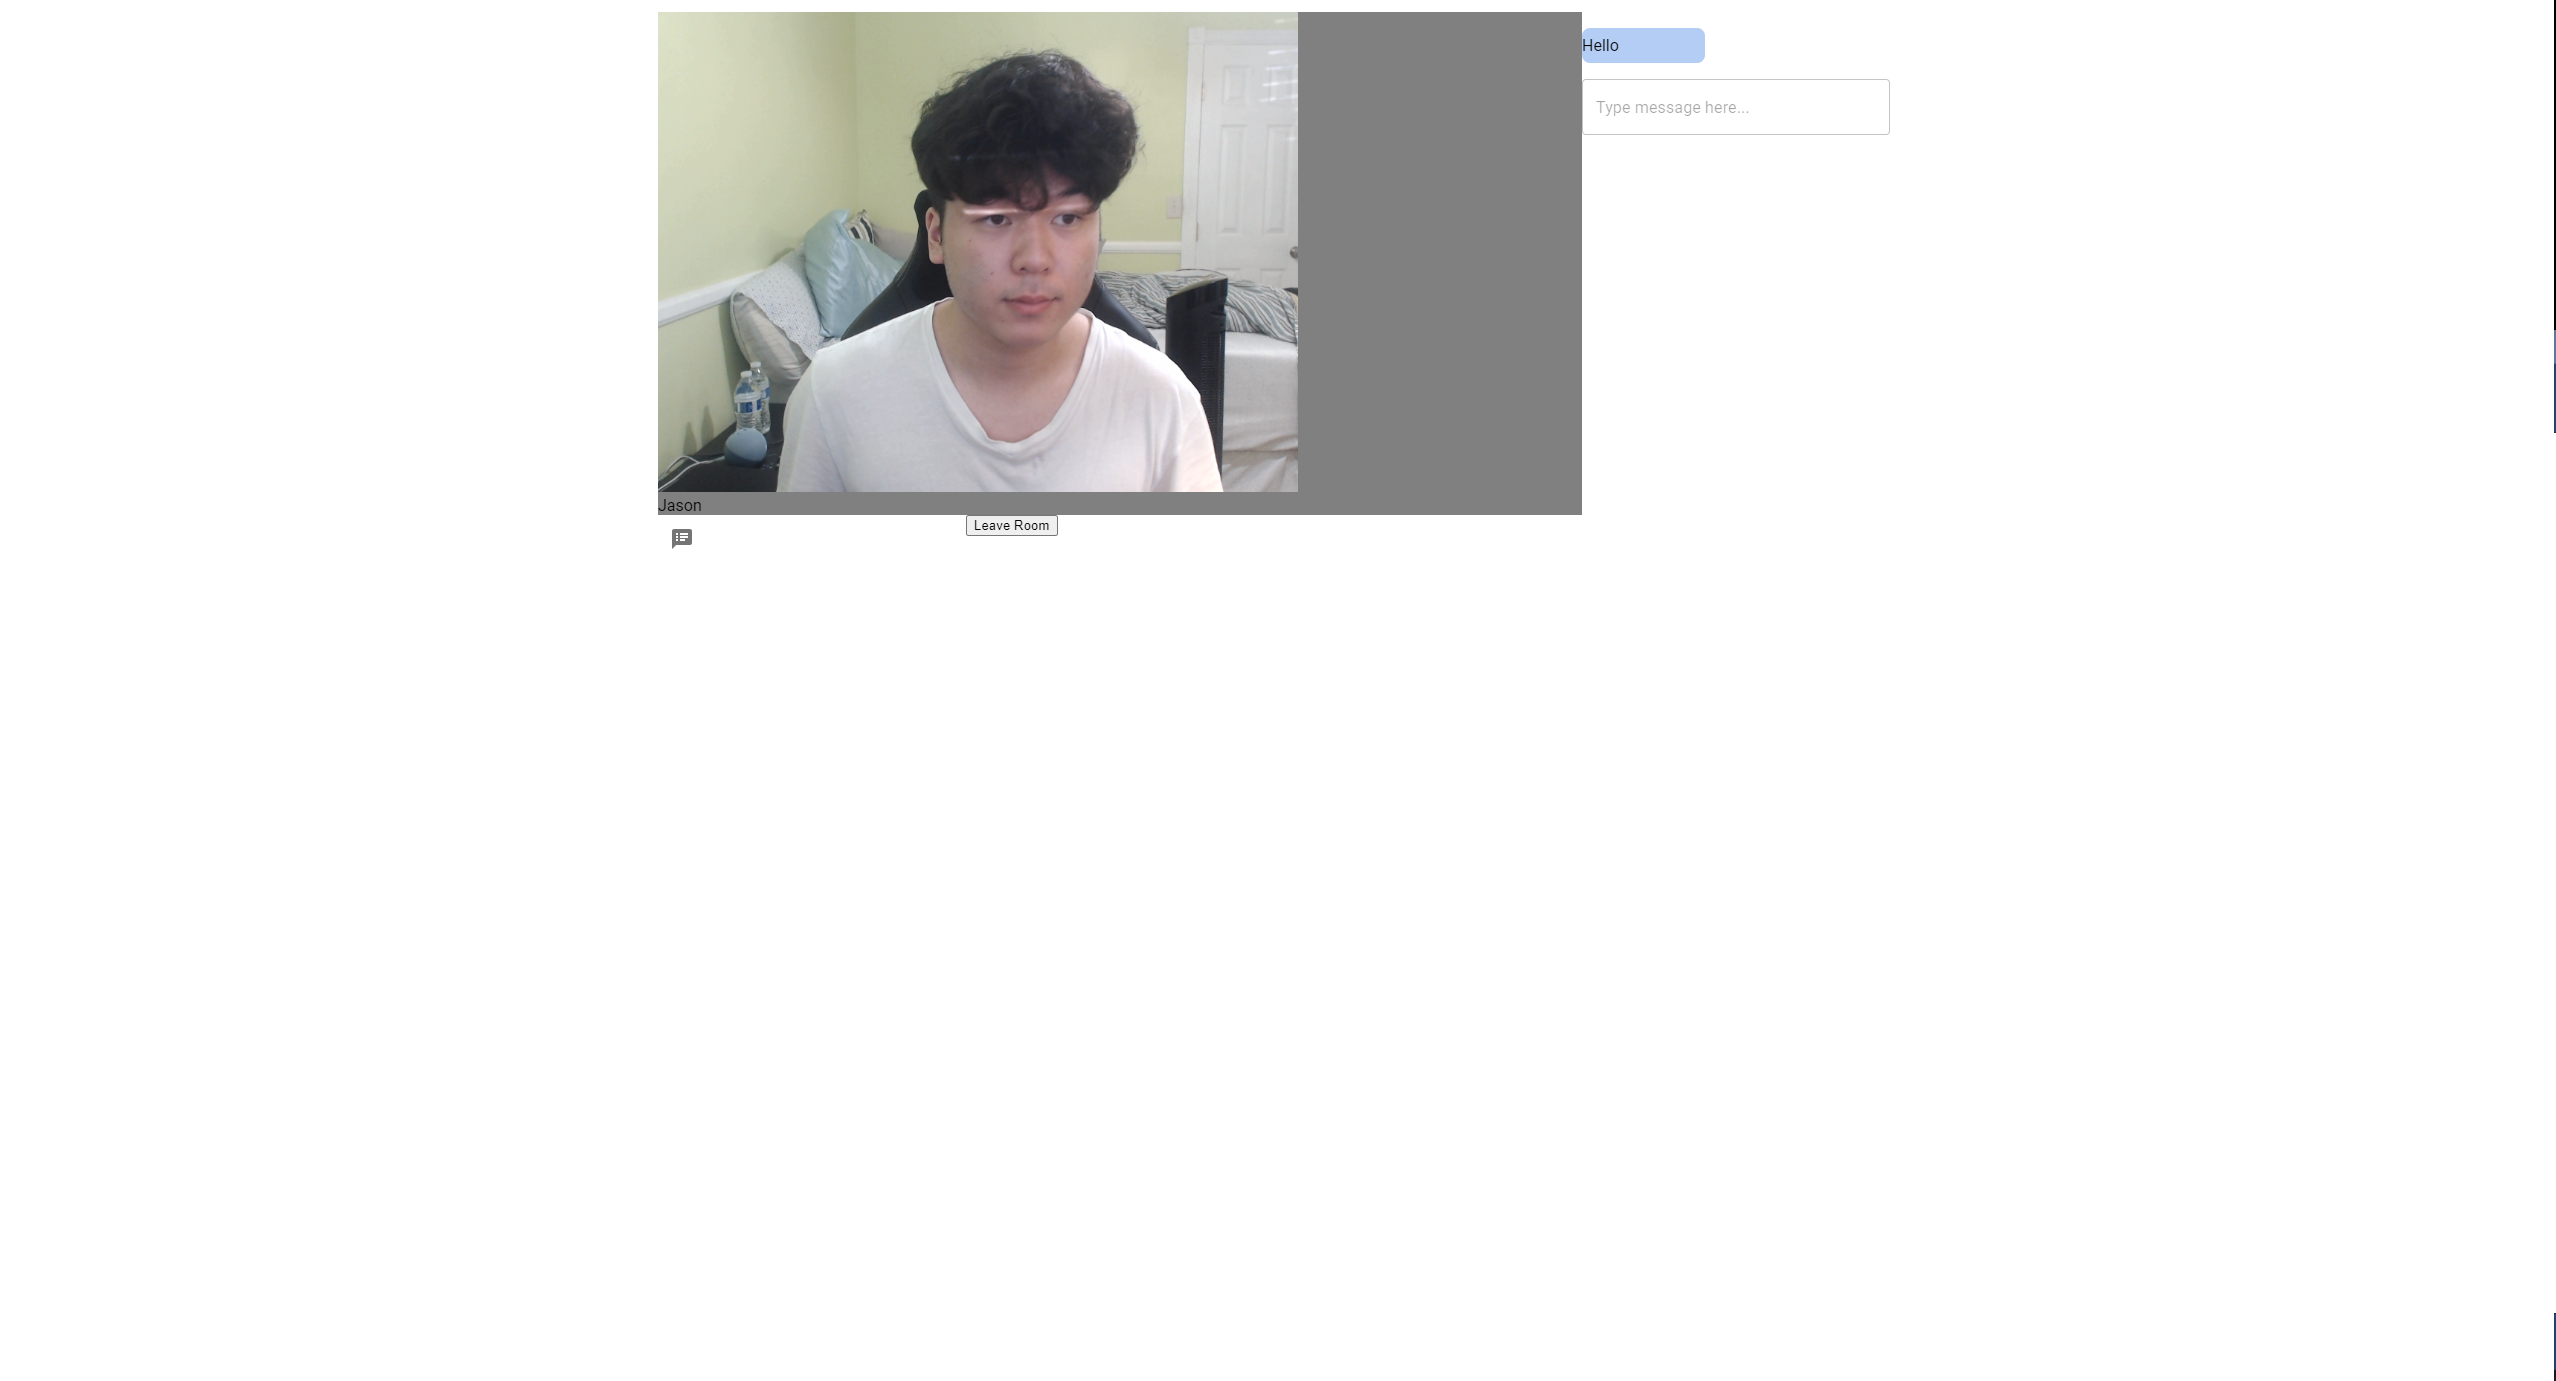
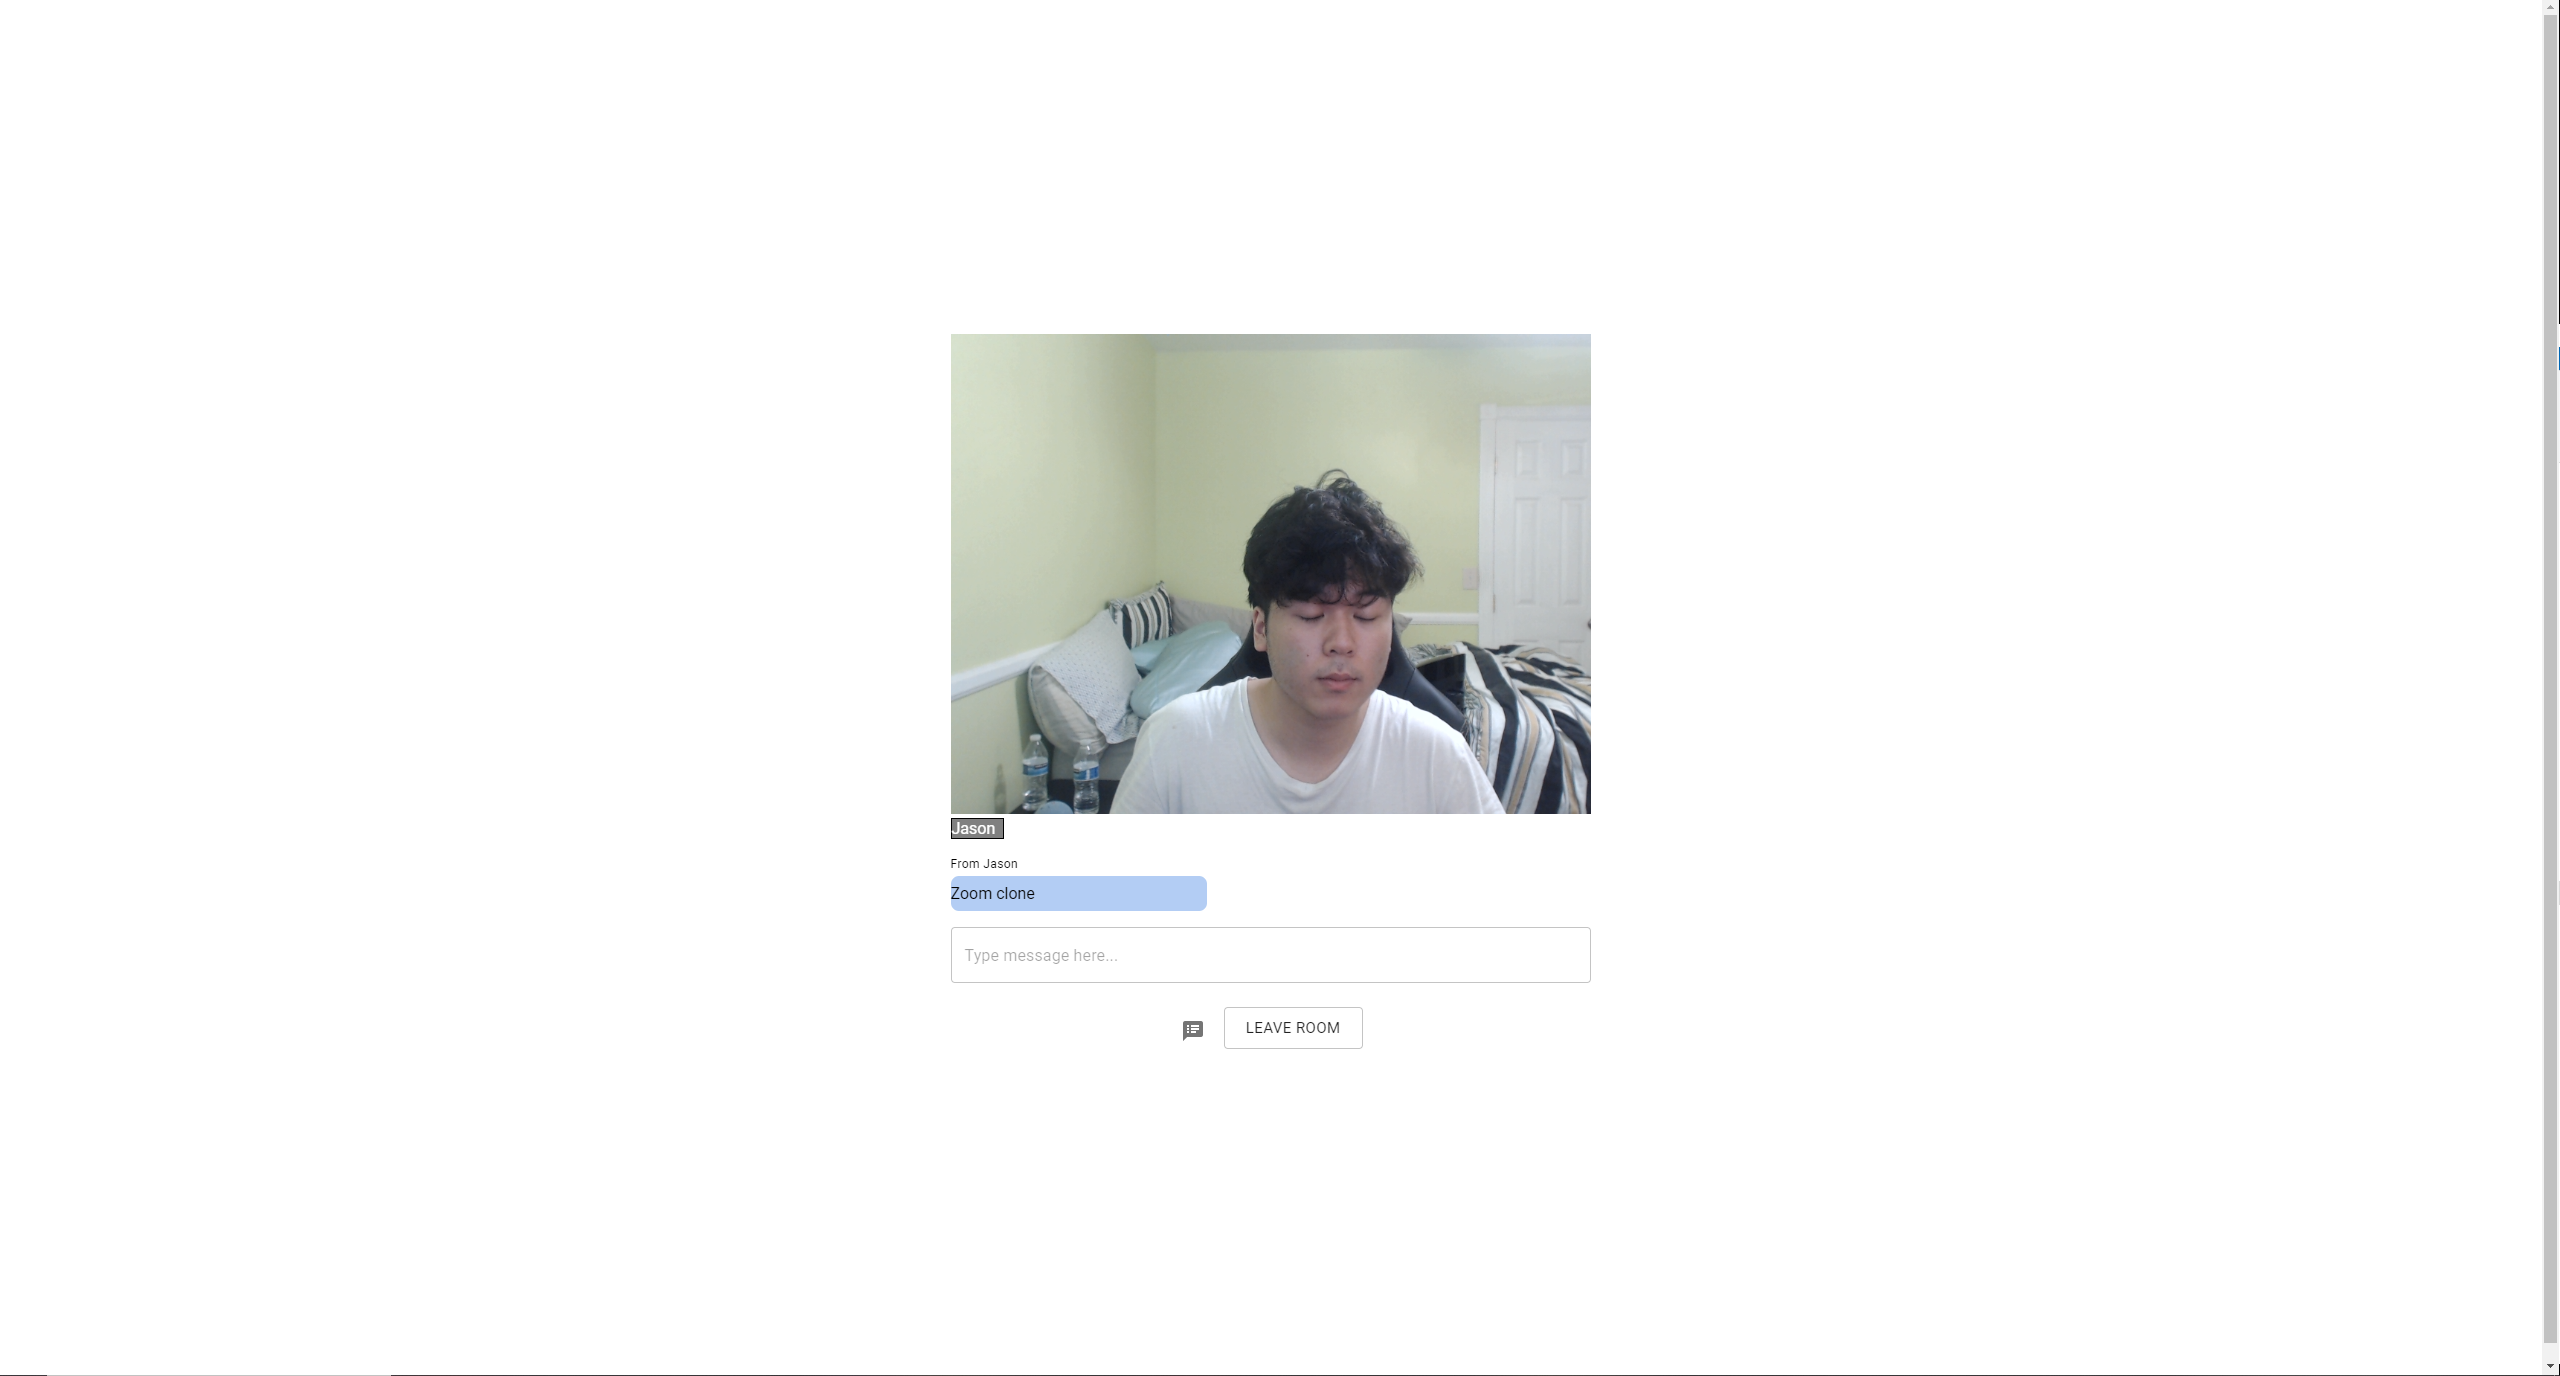
updated meeting room ux and added nametages to chat messages

Changed region(s): [[0.2473, 0.0, 0.68, 0.7188], [0.989, 0.0, 1.0, 1.0], [0.4945, 0.7188, 0.5254, 0.75]]

diff --git a/src/components/meeting/Chatbox.jsx b/src/components/meeting/Chatbox.jsx
@@ -1,5 +1,11 @@
 import React, { useEffect, useState, Fragment } from 'react';
-import { TextField, createStyles, makeStyles, Grid } from '@material-ui/core';
+import {
+  TextField,
+  createStyles,
+  makeStyles,
+  Grid,
+  Typography,
+} from '@material-ui/core';
 import { connect } from 'react-redux';
 import useChat from './useChat';
 
@@ -28,12 +34,17 @@ const useStyles = makeStyles(() =>
       wordBreak: 'break-word',
       borderRadius: '8px',
     },
+    name: {
+      marginBottom: '-.5em',
+      marginTop: '.5em',
+    },
   })
 );
-const Chatbox = ({ meetingId }) => {
+const Chatbox = ({ meetingId, room }) => {
   const classes = useStyles();
   const { messages, sendMessage } = useChat(meetingId);
   const [newMessage, setNewMessage] = useState('');
+  const name = room.localParticipant.identity;
 
   const handleMessage = (e) => {
     setNewMessage(e.target.value);
@@ -42,7 +53,7 @@ const Chatbox = ({ meetingId }) => {
   const sendChatMessage = (e) => {
     e.preventDefault();
     if (newMessage !== '') {
-      sendMessage(newMessage);
+      sendMessage(newMessage, name);
       setNewMessage('');
     }
   };
@@ -53,13 +64,31 @@ const Chatbox = ({ meetingId }) => {
         <ol className={classes.chatBox}>
           {messages.map((message, i) =>
             message.ownedByCurrentUser ? (
-              <li key={i} className={classes.sentMessage}>
-                {message.body}
-              </li>
+              <>
+                <Typography
+                  variant="caption"
+                  component="h1"
+                  className={classes.name}
+                >
+                  From {message.body.name}
+                </Typography>
+                <li key={i} className={classes.sentMessage}>
+                  {message.body.message}
+                </li>
+              </>
             ) : (
-              <li key={i} className={classes.receivedMessage}>
-                {message.body}
-              </li>
+              <>
+                <Typography
+                  variant="caption"
+                  component="h1"
+                  className={classes.name}
+                >
+                  From {message.body.name}
+                </Typography>
+                <li key={i} className={classes.receivedMessage}>
+                  {message.body}
+                </li>
+              </>
             )
           )}
         </ol>

diff --git a/src/components/meeting/Room.jsx b/src/components/meeting/Room.jsx
@@ -3,19 +3,10 @@ import ParticipantGrid from './ParticipantGrid';
 import Chatbox from './Chatbox';
 import RoomBottomBar from './RoomBottomBar';
 import { connect } from 'react-redux';
-import { createStyles, makeStyles, Grid } from '@material-ui/core';
+import { Grid } from '@material-ui/core';
 import { returnToLobby } from '../../actions/meeting';
 
-const useStyles = makeStyles(() =>
-  createStyles({
-    room: {
-      backgroundColor: 'gray',
-    },
-  })
-);
-
 const Room = ({ returnToLobby, room, meetingID }) => {
-  const classes = useStyles();
   const [showChat, setShowChat] = useState(true);
 
   const leaveRoom = () => {
@@ -30,15 +21,22 @@ const Room = ({ returnToLobby, room, meetingID }) => {
 
   return (
     <>
-      <Grid container spacing={0}>
-        <Grid item xs={9} className={classes.room}>
+      <Grid
+        container
+        spacing={0}
+        direction="column"
+        alignItems="center"
+        justify="center"
+        style={{ minHeight: '100vh' }}
+      >
+        <Grid item xs={12}>
           <ParticipantGrid room={room} />
+          {showChat && <Chatbox meetingId={meetingID} room={room} />}
         </Grid>
-        <Grid item xs={3}>
-          {showChat && <Chatbox meetingId={meetingID} />}
+        <Grid item>
+          <RoomBottomBar leaveRoom={leaveRoom} chatView={chatView} />
         </Grid>
       </Grid>
-      <RoomBottomBar leaveRoom={leaveRoom} chatView={chatView} />
     </>
   );
 };

diff --git a/src/components/meeting/Participant.jsx b/src/components/meeting/Participant.jsx
@@ -1,7 +1,19 @@
-import React, { useState, useEffect } from 'react';
+import React, { useState, useEffect, Fragment } from 'react';
 import Track from './Track';
+import { makeStyles, createStyles } from '@material-ui/core';
+
+const useStyles = makeStyles(() =>
+  createStyles({
+    nameTag: {
+      border: '1px black solid',
+      backgroundColor: 'gray',
+      color: 'white',
+    },
+  })
+);
 
 const Participant = ({ participant, localParticipant }) => {
+  const classes = useStyles();
   const existingPublications = Array.from(participant.tracks.values());
   const existingTracks = existingPublications.map(
     (publication) => publication.track
@@ -21,12 +33,12 @@ const Participant = ({ participant, localParticipant }) => {
   }, []);
 
   return (
-    <div>
+    <>
       {tracks.map((track) => (
-        <Track key={track} track={track} tracks={tracks} />
+        <Track key={track} track={track} />
       ))}
-      {participant.identity}
-    </div>
+      <div className={classes.nameTag}> {participant.identity}</div>
+    </>
   );
 };
 

diff --git a/src/components/meeting/RoomBottomBar.jsx b/src/components/meeting/RoomBottomBar.jsx
@@ -1,18 +1,20 @@
 import React from 'react';
-import { Grid, IconButton } from '@material-ui/core';
+import { Grid, IconButton, Button } from '@material-ui/core';
 import SpeakerNotesIcon from '@material-ui/icons/SpeakerNotes';
 import SpeakerNotesOffIcon from '@material-ui/icons/SpeakerNotesOff';
 
 const RoomBottomBar = ({ leaveRoom, chatView }) => {
   return (
-    <Grid container>
+    <Grid container spacing={2} style={{ marginTop: '1em' }}>
       <Grid item xs={3}>
         <IconButton onClick={(e) => chatView(e)}>
           <SpeakerNotesIcon />
         </IconButton>
       </Grid>
-      <Grid item xs={3}>
-        <button onClick={(e) => leaveRoom(e)}>Leave Room</button>
+      <Grid item xs>
+        <Button size="large" variant="outlined" onClick={(e) => leaveRoom(e)}>
+          Leave Room
+        </Button>
       </Grid>
     </Grid>
   );

diff --git a/src/components/meeting/Track.jsx b/src/components/meeting/Track.jsx
@@ -1,6 +1,6 @@
 import React, { useEffect } from 'react';
 
-const Track = ({ track, tracks }) => {
+const Track = ({ track }) => {
   let ref = React.createRef();
 
   useEffect(() => {
@@ -9,7 +9,7 @@ const Track = ({ track, tracks }) => {
       ref.current.classList.add(track.kind);
       ref.current.appendChild(child);
     }
-  }, [tracks]);
+  }, []);
 
   return <div ref={ref}></div>;
 };

diff --git a/src/components/meeting/useChat.js b/src/components/meeting/useChat.js
@@ -25,9 +25,9 @@ const useChat = (roomId) => {
     };
   }, [roomId]);
 
-  const sendMessage = (messageBody) => {
+  const sendMessage = (messageBody, name) => {
     socketRef.current.emit('newChatMessage', {
-      body: messageBody,
+      body: { message: messageBody, name: name },
       senderId: socketRef.current.id,
     });
   };
